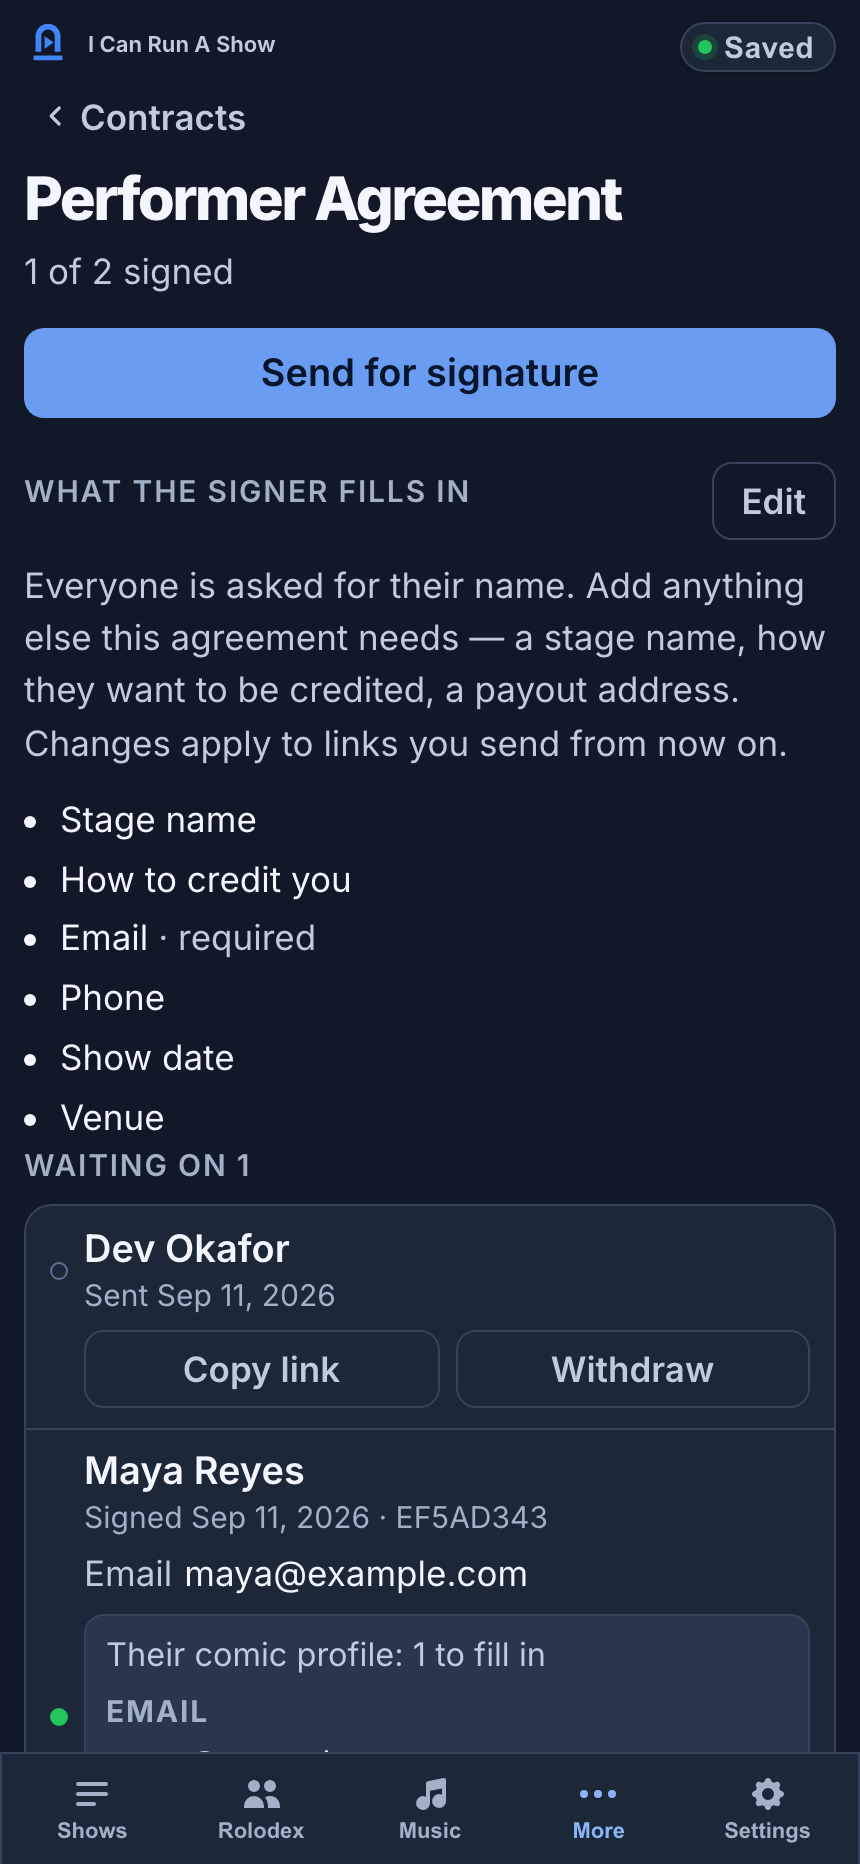
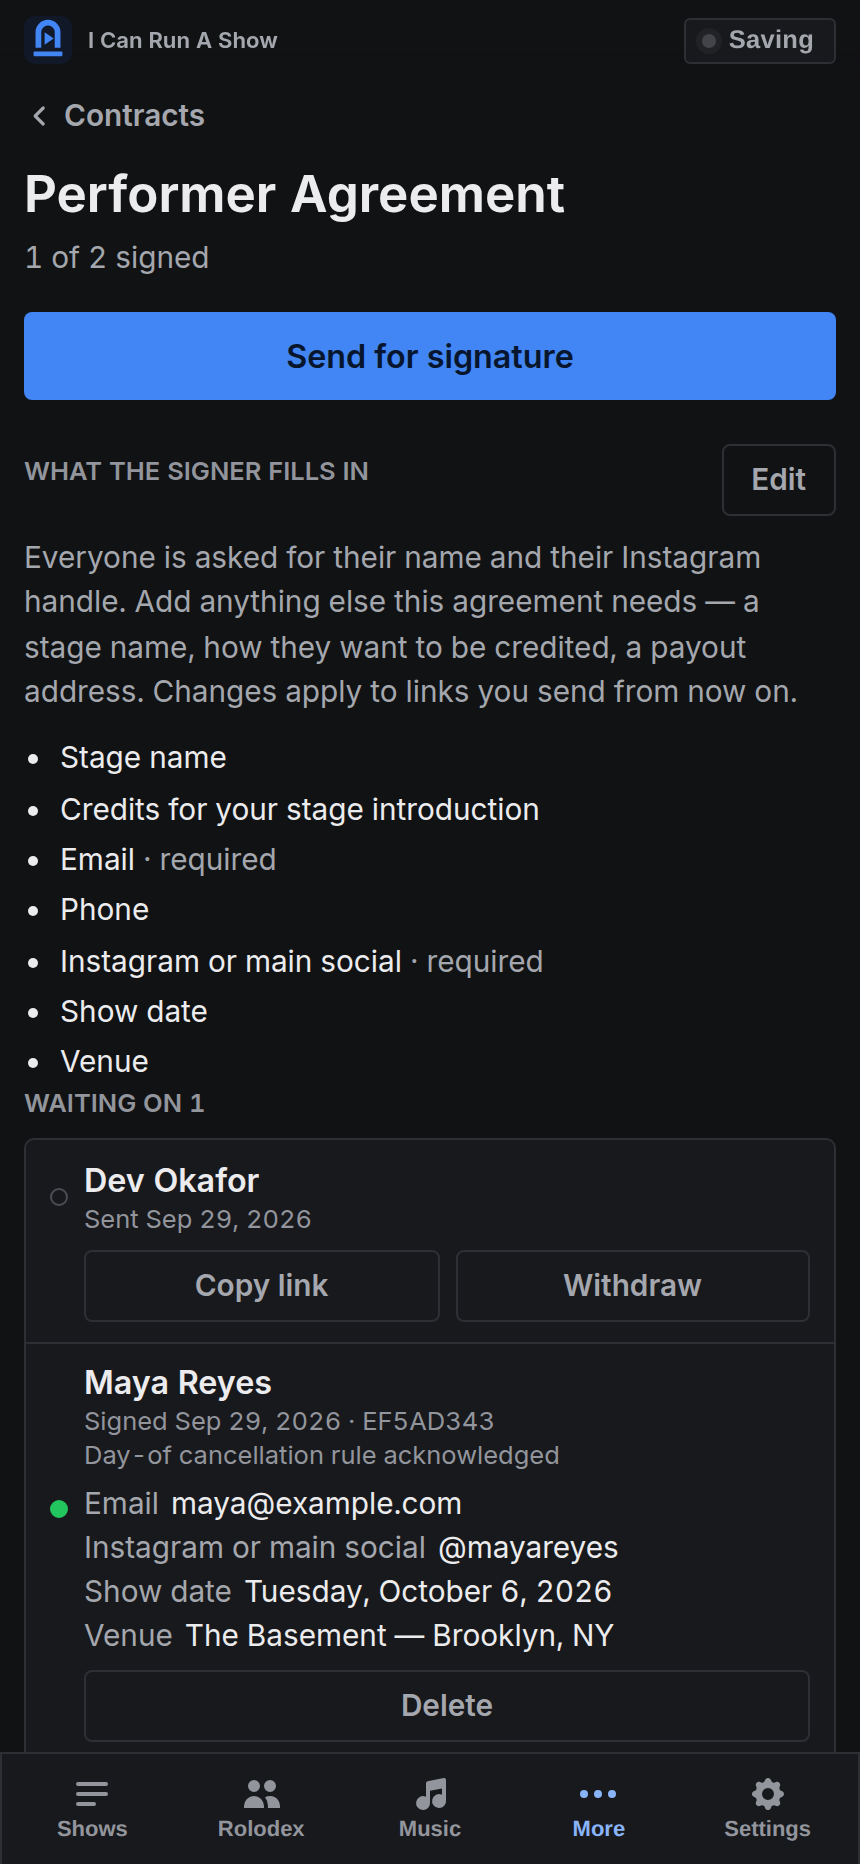
Bring the README up to date with the utility look, flyers and contracts (#304)
Regenerate every screenshot from the current build, describe the new show
layout, flyers, post copy and the day-of cancellation rule, and let the
screenshot script get through signing again: it now attaches the headshot
the signing page requires.

Claude-Session: https://claude.ai/code/session_01Vfw99CKChoDHwub351pNLq

diff --git a/README.md b/README.md
@@ -50,10 +50,10 @@
 
 ## Screenshots
 
-Try it live at **[icanrunashow.com](https://icanrunashow.com)**. These screenshots show the blue design, desktop hamburger navigation, and phone bottom bar. They are captured from the local production build with sample data using `npm run screenshots` (see [docs/screenshots/CAPTURE.md](docs/screenshots/CAPTURE.md)).
+Try it live at **[icanrunashow.com](https://icanrunashow.com)**. These screenshots show the utility design (neutral greys, flat panels, small corners), the desktop hamburger menu, and the phone bottom bar. They are captured from the local production build with sample data using `npm run screenshots` (see [docs/screenshots/CAPTURE.md](docs/screenshots/CAPTURE.md)).
 
 <p align="center">
-  <img src="docs/screenshots/desktop-shows.png" width="100%" alt="Blue desktop dashboard with the sidebar hidden behind a hamburger menu" />
+  <img src="docs/screenshots/desktop-shows.png" width="100%" alt="Desktop dashboard with the navigation tucked behind a hamburger menu" />
 </p>
 <p align="center">
   <sub><b>Desktop workspace</b> — the next show and its readiness checks, with navigation tucked into the hamburger menu</sub>
@@ -64,8 +64,8 @@ Try it live at **[icanrunashow.com](https://icanrunashow.com)**. These screensho
 
 <p align="center">
   <img src="docs/screenshots/desktop-menu.png" width="100%" alt="Desktop hamburger menu open with Shows, Rolodex, Music, More, and Settings" />
-  <img src="docs/screenshots/desktop-light.png" width="100%" alt="Desktop dashboard in the light theme with the selected blue accent" />
-  <img src="docs/screenshots/sign-in.png" width="100%" alt="New sign-in design with the app logo, show workflow, and account form" />
+  <img src="docs/screenshots/desktop-light.png" width="100%" alt="Desktop dashboard in the light theme" />
+  <img src="docs/screenshots/sign-in.png" width="100%" alt="Sign-in screen with the app name, the show workflow, and the account form" />
 </p>
 
 </details>
@@ -83,7 +83,7 @@ Try it live at **[icanrunashow.com](https://icanrunashow.com)**. These screensho
   <img src="docs/screenshots/schedule.png" width="32%" alt="Run-of-show builder" />
 </p>
 <p align="center">
-  <sub><b>Shows dashboard</b> — what's next and what still needs doing &nbsp;·&nbsp; <b>Show detail</b> — the section accordion &nbsp;·&nbsp; <b>Run-of-show</b> — build the cue list (or import it from a photo, PDF, or text)</sub>
+  <sub><b>Shows dashboard</b> — what's next and what still needs doing &nbsp;·&nbsp; <b>Show detail</b> — opens on the performers; flyer and running order alongside &nbsp;·&nbsp; <b>Run-of-show</b> — build the cue list (or import it from a photo, PDF, or text)</sub>
 </p>
 
 <p align="center">
@@ -101,7 +101,7 @@ Try it live at **[icanrunashow.com](https://icanrunashow.com)**. These screensho
   <img src="docs/screenshots/contracts.png" width="32%" alt="Contracts — who has signed and who has not" />
 </p>
 <p align="center">
-  <sub><b>Run Show</b> — the clock, the soundboard, and the lineup &nbsp;·&nbsp; <b>More</b> — the between-shows pages, off a five-tab bar &nbsp;·&nbsp; <b>Contracts</b> — one signed, one still waiting, each with the hash of the document agreed to</sub>
+  <sub><b>Run Show</b> — the clock, the soundboard, and the lineup &nbsp;·&nbsp; <b>More</b> — the between-shows pages, off a five-tab bar &nbsp;·&nbsp; <b>Contracts</b> — one signed, one still waiting, each with the hash of the document agreed to and the day-of cancellation rule acknowledged</sub>
 </p>
 
 <p align="center">
@@ -145,15 +145,19 @@ I Can Run A Show handles the full workflow in a single application:
 - Show-type-aware wording — the Rolodex adapts to what you book (Comic Rolodex, Queen Rolodex, Artist Rolodex, …), with an editable override in Settings
 - Selectable color schemes — Light and Dark; the choice persists across visits and applies app-wide, including the public viewer page
 - Per-show customizable sections — hide the sections you don't use
+- A utility look — neutral greys, flat hairline panels, small corners and tabular figures, so the app reads as a tool at the side of a stage rather than a landing page
 
 **Show building**
 - Multiple shows with status tracking (upcoming, in-progress, completed, cancelled)
+- A show opens on its performers: the lineup is the first thing on the page, with the running order beside it on a laptop and below it on a phone
 - Per-show lineup with performer profiles: headshot, social media, email, credits, walk-on track, and video link
+- A flyer on every show — upload, view full size, download, replace or remove; stored encrypted like headshots and never removed by the storage sweep while a show uses it
 - Headshots are resized in the browser and stored encrypted in the media store — the photo becomes the face on that performer's Run Show button
 - Clickable contacts — social handles link straight to the profile (bare handles resolve to Instagram); one tap to email a performer
 - "Email all performers" — opens your mail app with the lineup BCC'd and a pre-filled confirmation, for quick booking confirmations
 - Global performer rolodex — save a performer once, reuse across shows; edits sync to all matching performers
 - Vendors, staff, host, expenses, and per-section deadlines on each show
+- Post copy — the show's details, the host, the bill and everyone's handles composed into a caption and copied to the clipboard (nothing is posted for you)
 
 **Schedule import**
 - Schedule import from a photo, a PDF, or pasted text — all read on the device: PDF.js for PDFs, Tesseract.js OCR for photos, then a line parser that picks out times, performers and durations
@@ -171,6 +175,7 @@ I Can Run A Show handles the full workflow in a single application:
 - Upload a contract, send it to anyone in the Rolodex, and watch the list go from waiting to signed
 - The signer needs no account: they open a link, read the PDF, type their name and agree — and the server never holds a key that could read any of it
 - Every signature records the typed name, the timestamp, and a SHA-256 of the exact bytes shown, so the copy on file can be shown to be the copy agreed to
+- A day-of cancellation rule the signer must acknowledge: cancelling on the day for another booking means they won't be booked again. Worded kindly, and recorded with the signature
 
 **Running it from the stage**
 - The operator is usually on the bill too. A Bluetooth clicker paired to the laptop starts and stops the music from anywhere in the room, with no network of any kind involved
